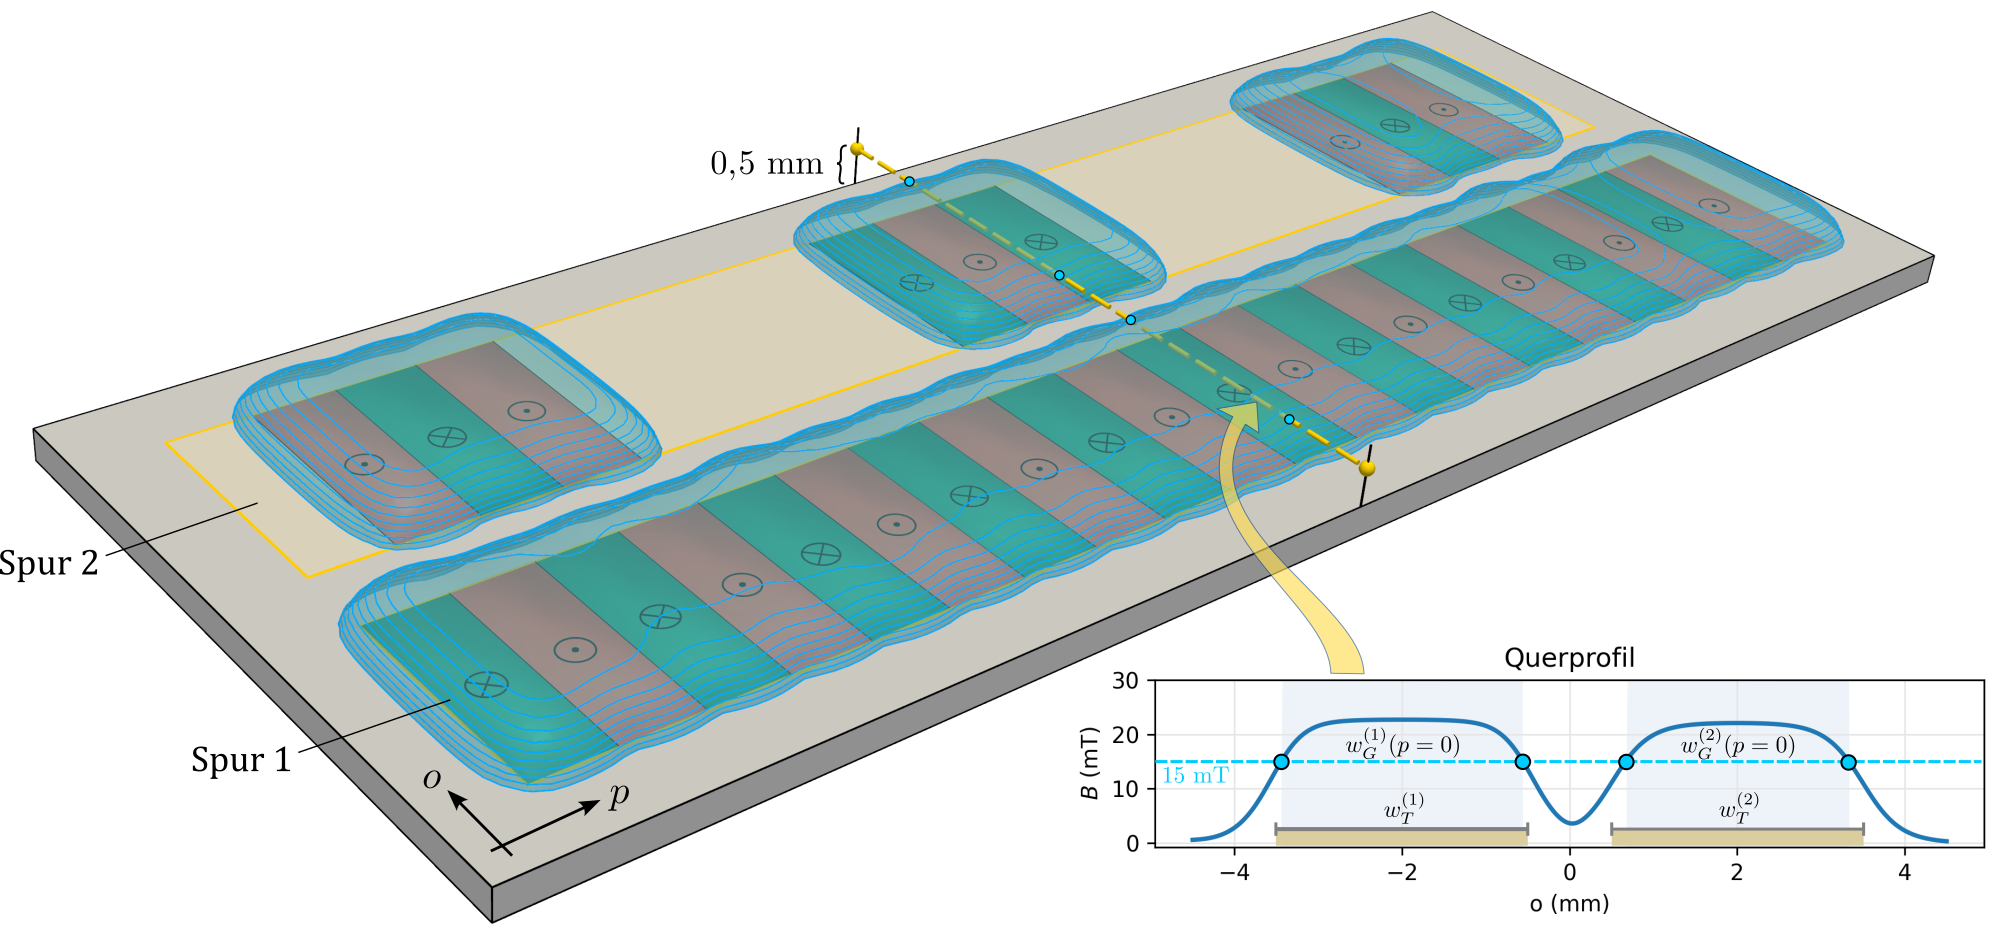
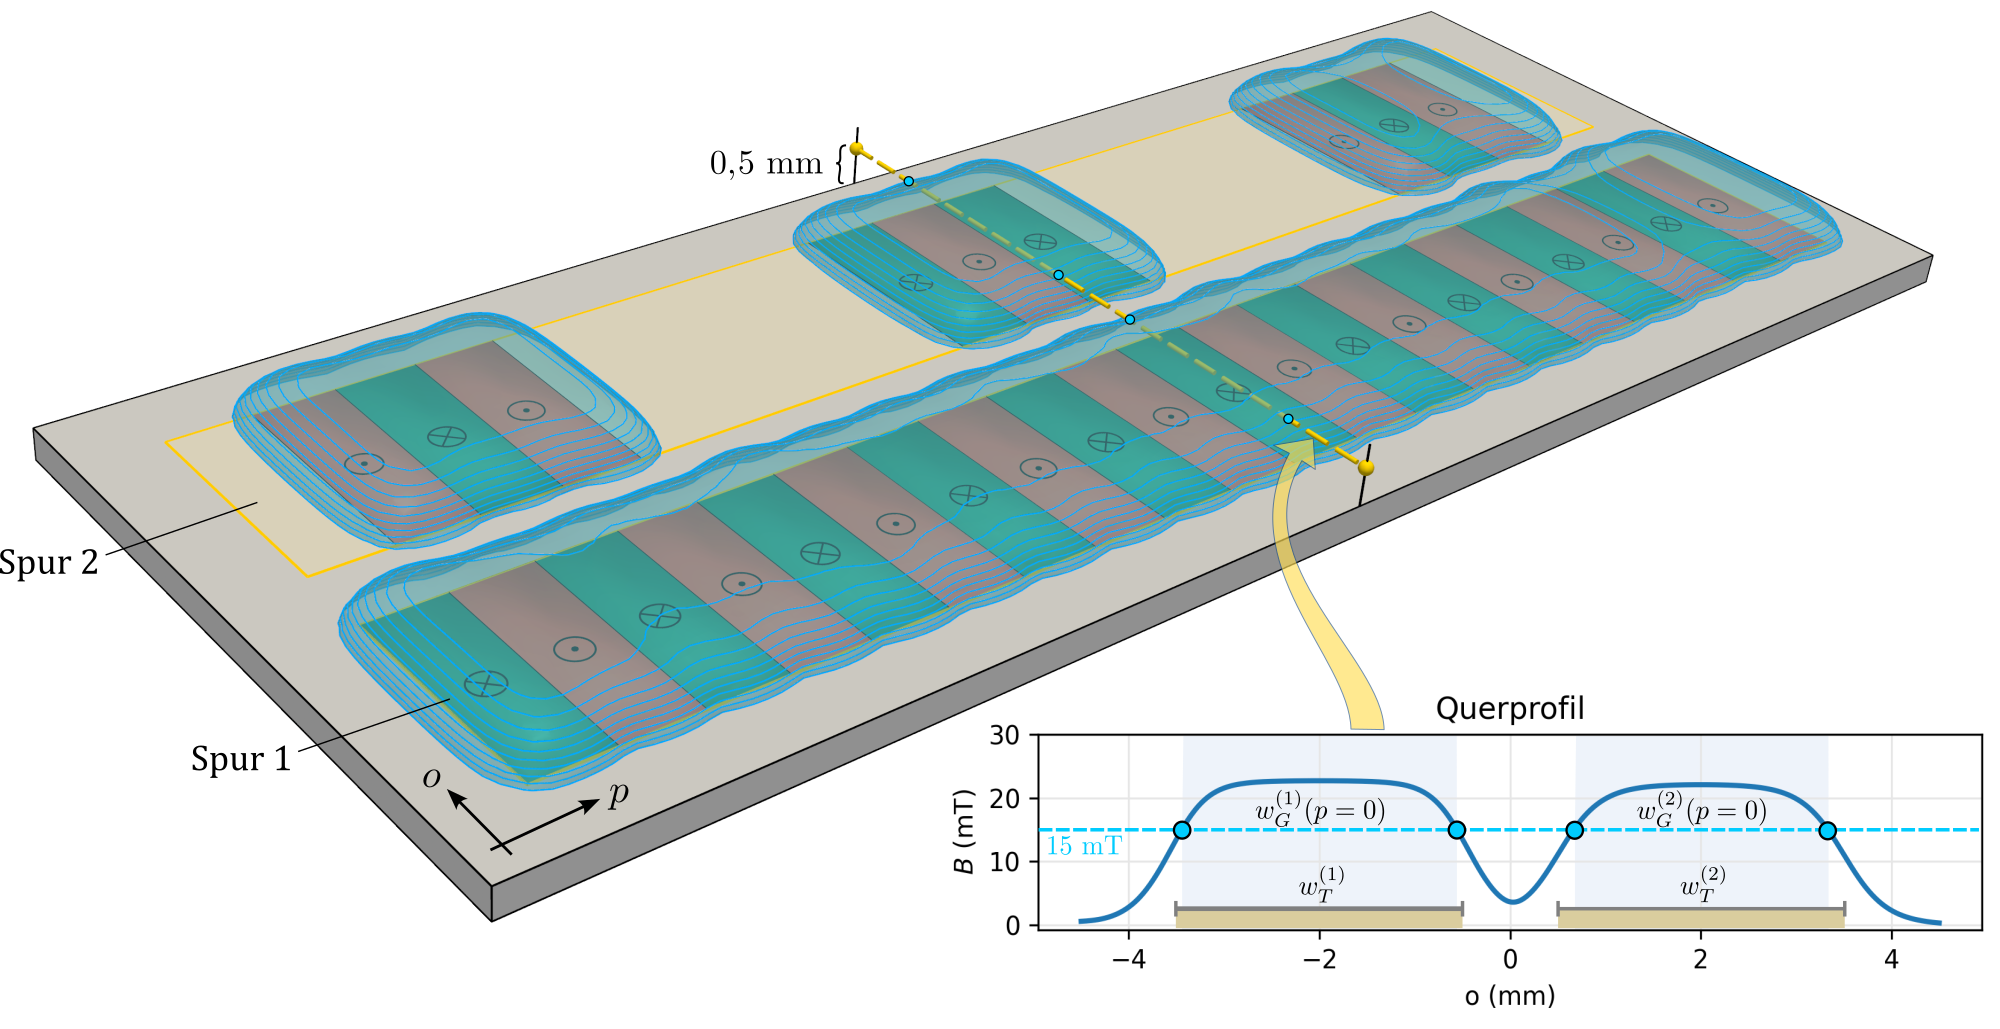
more formating

diff --git a/de/latex_preamble.tex b/de/latex_preamble.tex
@@ -57,7 +57,7 @@
 
 \setmainfont{TeX Gyre Termes}
 \setsansfont{TeX Gyre Heros}
-\setmathfont{TeX Gyre Termes Math}
+\setmathfont{Latin Modern Math}
 
 % ---------------------------------------------------------
 % Place floats at the top of float-only pages

diff --git a/de/before-body.tex b/de/before-body.tex
@@ -49,7 +49,7 @@ $endif$
   \raggedleft
   \includegraphics[
     width=0.85\linewidth
-  ]{figures/coverpage/innomag_logo.jpg}
+  ]{figures/coverpage/innomag_logo.png}
 \end{minipage}
 
 
